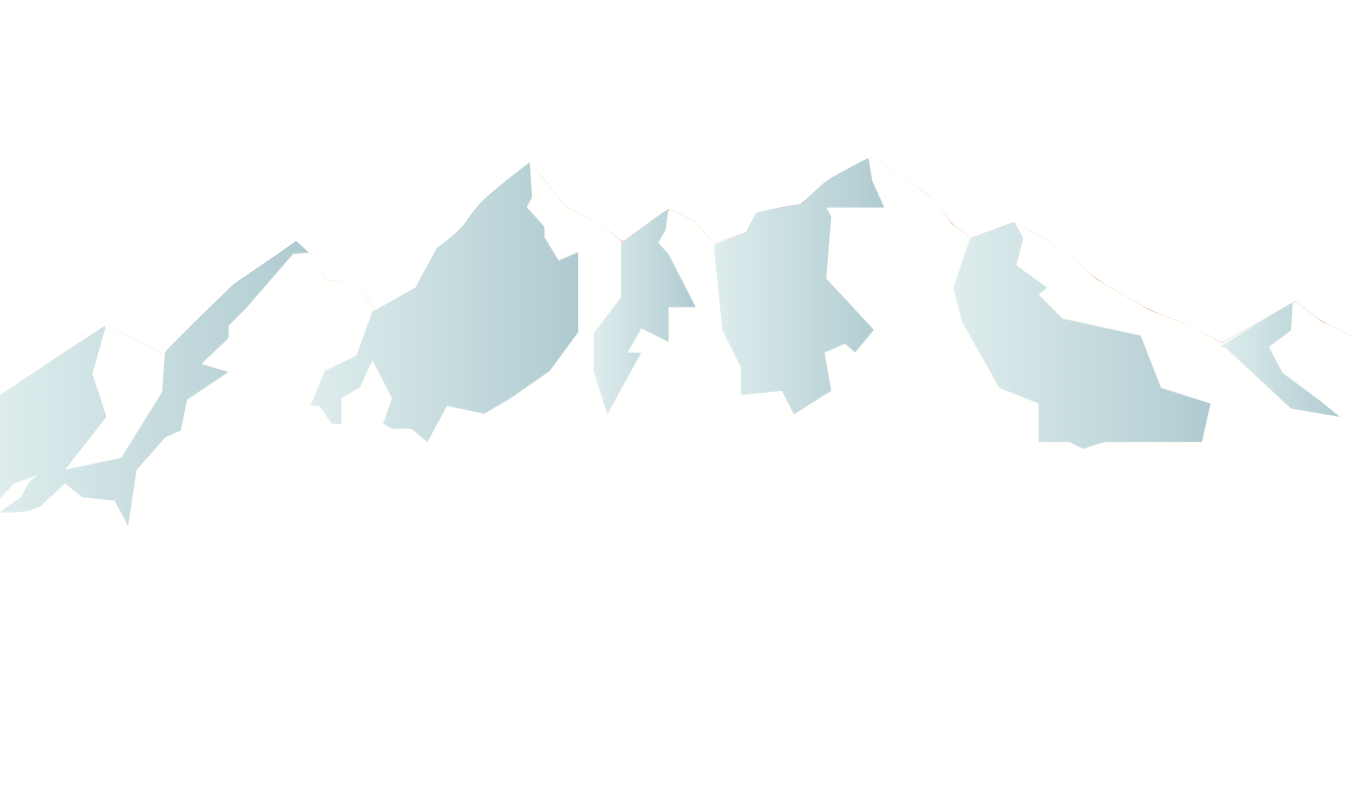
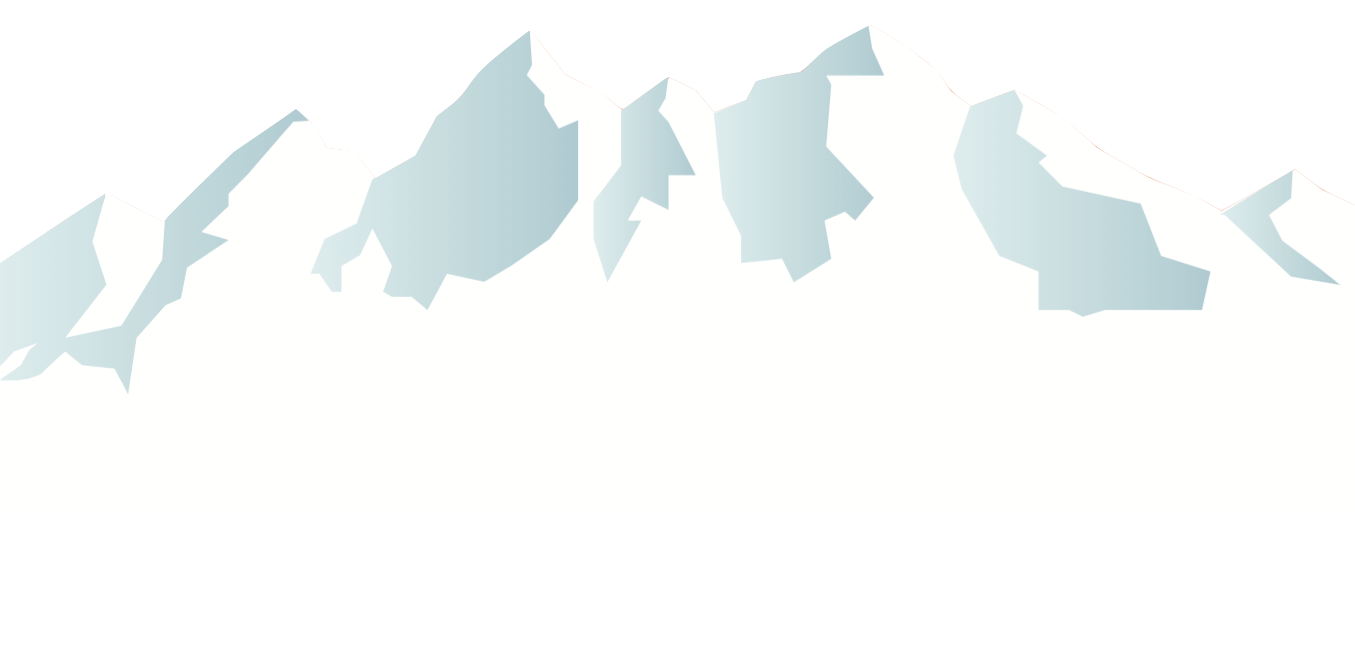
better Mountain pic

Changed region(s): [[0.0, 0.0299, 0.6509, 0.6587], [0.6819, 0.1198, 0.9919, 0.5689], [0.217, 0.1497, 0.248, 0.1796]]

diff --git a/css/main.css b/css/main.css
@@ -484,8 +484,7 @@ h2 {
   position: relative;
   width: 100%;
   display: flex;
-  height: 450px;
-  padding-top: 30px;
+  height: auto;
 }
 
 .mountainpic {
@@ -494,7 +493,8 @@ h2 {
   background-color: #e27a3f;
   background-repeat: no-repeat;
   background-size: cover;
-  position: relative;
+  height: auto;
+  padding-top: 200px;
 }
 
 .about-content {
